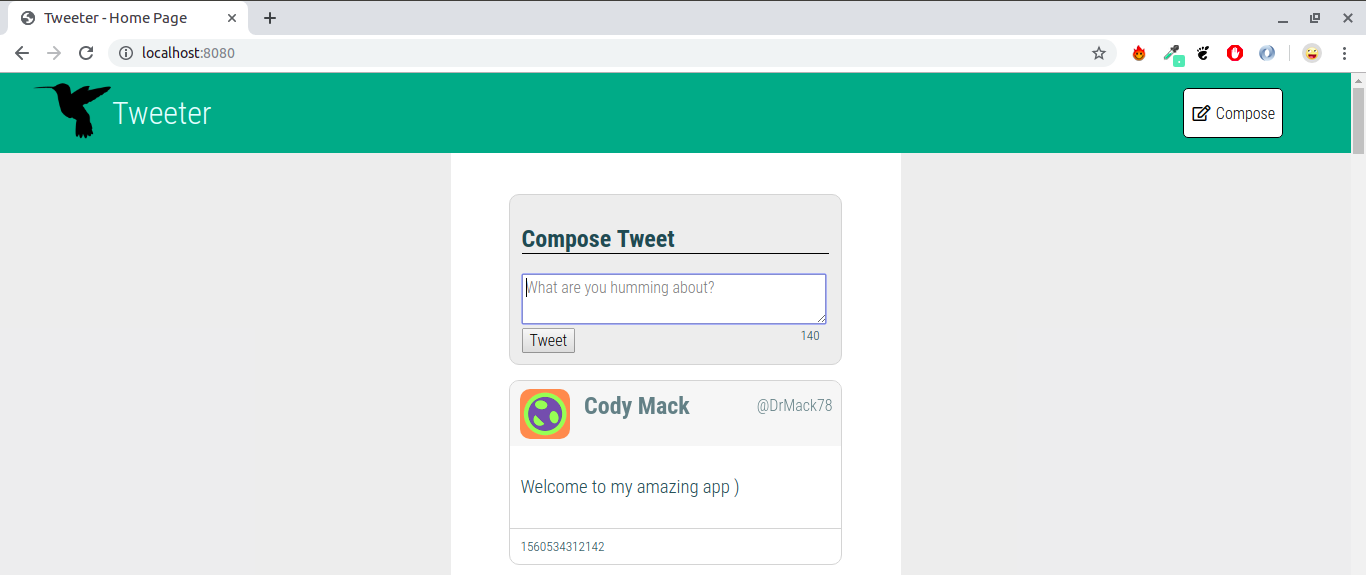
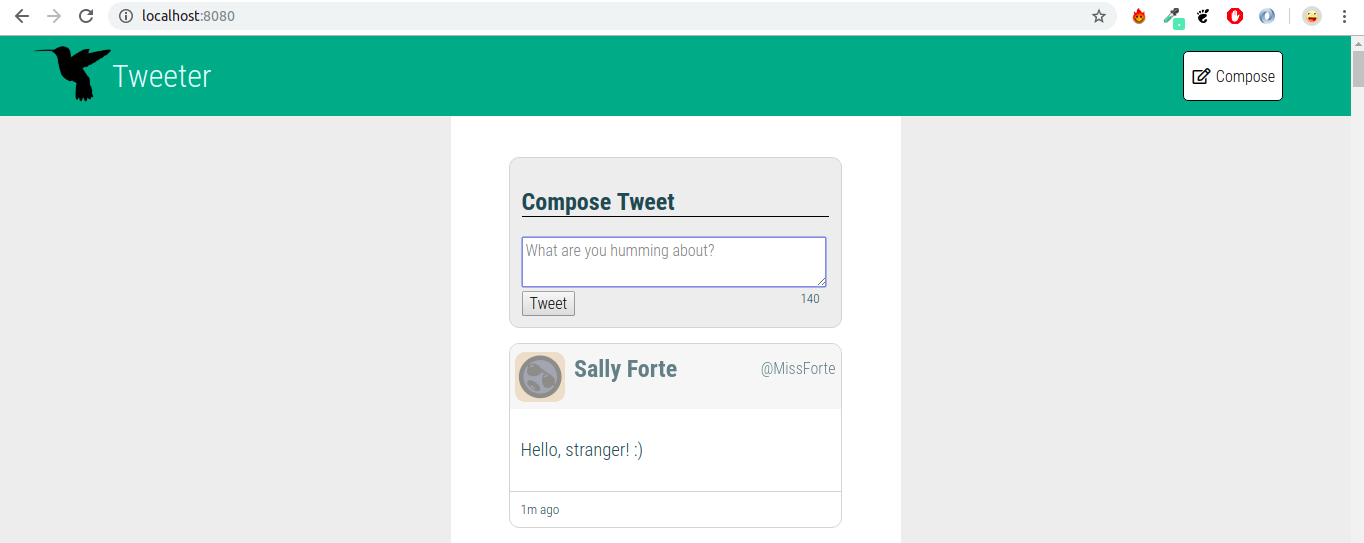
added helper time ago function in app.js and fixed code

diff --git a/public/scripts/app.js b/public/scripts/app.js
@@ -2,37 +2,55 @@
 // JavaScript code
 $(document).ready(function() {
 
-  // function that prevent Cross-Site Scripting
-  function escape(str) {
-    var div = document.createElement('div');
-    div.appendChild(document.createTextNode(str));
-  return div.innerHTML;
+// function that prevent Cross-Site Scripting
+function escape(str) {
+  var div = document.createElement('div');
+  div.appendChild(document.createTextNode(str));
+return div.innerHTML;
 }
 
-// function that creates new tweets
-  function createTweetElement (tweetObj) {
-    var $tweetArticle = `
-      <article class="tweets-container">
-          <header>
-            <div class="logo2"><img src='${tweetObj.user.avatars.small}'></div>
-            <span class="header">${tweetObj.user.name}</span>
-            <span class="header_el">${tweetObj.user.handle}</span>
-          </header>
-          <section>
-            <h3>${escape(tweetObj.content.text)}</h3>
-          </section>
-          <footer>
-            <h5>${tweetObj.created_at}</h5>
-            <div class="footer_images">
-              <i class="fas fa-flag"></i>
-              <i class="fas fa-retweet"></i>
-              <i class="fas fa-heart"></i>
-            </div>
-          </footer>
-        </article>
-    `;
-    return $tweetArticle;
+//Converts milliseconds to appropriate time for user readability
+const convertTime = (milsec) => {
+  const sec = (Date.now() - milsec ) / 1000;
+  const min = sec / 60;
+  const hour = min / 60;
+  const day = hour / 24;
+
+  if ( min < 60 ) {
+      return `${Math.floor(min)}m ago`;
   }
+  else if ( min > 60 ) {
+      return `${Math.floor(hour)}h ago`;
+  }
+  else if ( hour > 24 ) {
+      return `${Math.floor(day)}days ago`;
+  }
+};
+
+// function that creates new tweets
+function createTweetElement (tweetObj) {
+  var $tweetArticle = `
+    <article class="tweets-container">
+        <header>
+          <div class="logo2"><img src='${tweetObj.user.avatars.small}'></div>
+          <span class="header">${tweetObj.user.name}</span>
+          <span class="header_el">${tweetObj.user.handle}</span>
+        </header>
+        <section>
+          <h3>${escape(tweetObj.content.text)}</h3>
+        </section>
+        <footer>
+          <h5>${convertTime(tweetObj.created_at)}</h5>
+          <div class="footer_images">
+            <i class="fas fa-flag"></i>
+            <i class="fas fa-retweet"></i>
+            <i class="fas fa-heart"></i>
+          </div>
+        </footer>
+      </article>
+  `;
+  return $tweetArticle;
+}
 
 // function that shows new tweets on the page
 function renderTweets (tweetData) {
@@ -68,24 +86,24 @@ $form.on('submit',function (ev) {
   ev.preventDefault();
   const data = $form.serialize();
   var input = $('#new-tweet-form textarea').val();
-  if ($(".error")) {
-    $(".error").slideUp(true);
-  }
-  if (input.length === 0) {
-    return $(".error").text("Error: Your tweet content is not present").slideDown(true);
-  } else if (input.length > 140) {
-    return $(".error").text("Error: Your tweet content is too long").slideDown(true);
-  } else {
-    $('textarea').val('');
-    $('.counter').text('140');
-    $.ajax({
-      method: 'POST',
-      url: '/tweets/',
-      data: data,
-      success: function () {
-        loadTweets();
-      }
-    });
-  }
-});
+    if ($(".error")) {
+      $(".error").slideUp(true);
+    }
+    if (input.length === 0) {
+      return $(".error").text("Error: Your tweet content is not present").slideDown(true);
+    } else if (input.length > 140) {
+      return $(".error").text("Error: Your tweet content is too long").slideDown(true);
+    } else {
+      $('textarea').val('');
+      $('.counter').text('140');
+      $.ajax({
+        method: 'POST',
+        url: '/tweets/',
+        data: data,
+        success: function () {
+          loadTweets();
+        }
+      });
+    }
+  });
 });

diff --git a/public/styles/new-tweet.css b/public/styles/new-tweet.css
@@ -68,7 +68,7 @@ textarea {
 }
 
 .tweets-container .logo2 {
-  margin-left: 10px;
+  margin-left: 5px;
   border-radius: 10px;
   width: 50px;
   height: 50px;
@@ -90,12 +90,12 @@ textarea {
 .tweets-container .header {
   font-size: 1.5em;
   vertical-align: middle;
-  margin-left: 10px;
+  margin-left: 5px;
   font-weight: 600;
 }
 
 .tweets-container .header_el{
-  padding: 15px 8px 0 0;
+  padding: 15px 5px 0 0;
   float: right;
 }
 

diff --git a/public/styles/nav.css b/public/styles/nav.css
@@ -6,16 +6,13 @@
   color: #e8fdff;
   padding-left: 2em;
   padding-right: 2em;
+  position: absolute;
 }
 
 #nav-bar .logo {
   width: 80px;
   height: 80px;
   float: left;
-}
-
-#nav-bar {
-  position: absolute;
 }
 
 #nav-bar .header {

diff --git a/README.md b/README.md
@@ -30,6 +30,7 @@ Tweeter Project is build upon HTML, CSS, JS, jQuery and AJAX front-end skills, a
 ## Getting Started
 
 1. Install dependencies using the `npm install` command.
-2. Go to <http://localhost:8080/> in your browser.
+2. Start the web server using the `npm run local` or `npm start` command. The app will be served at http://localhost:8080/.
+3. Go to <http://localhost:8080/> in your browser.
 
 
